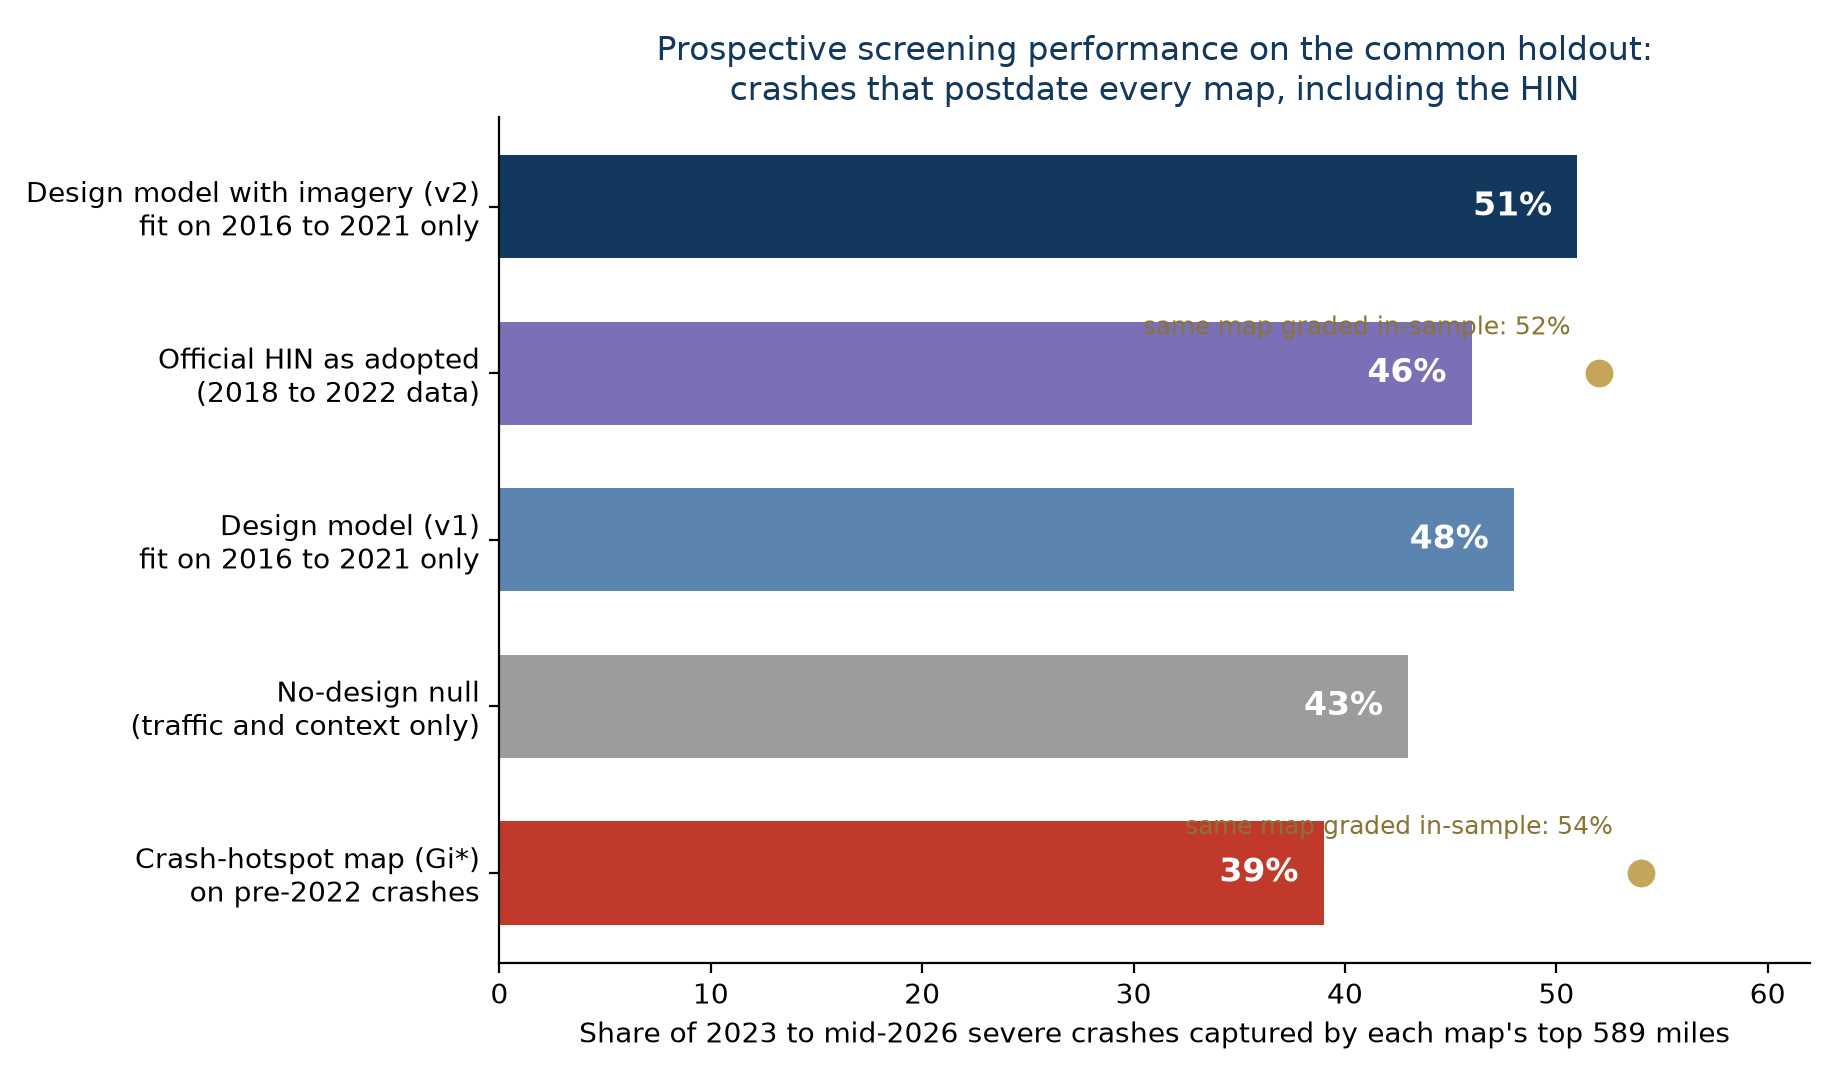
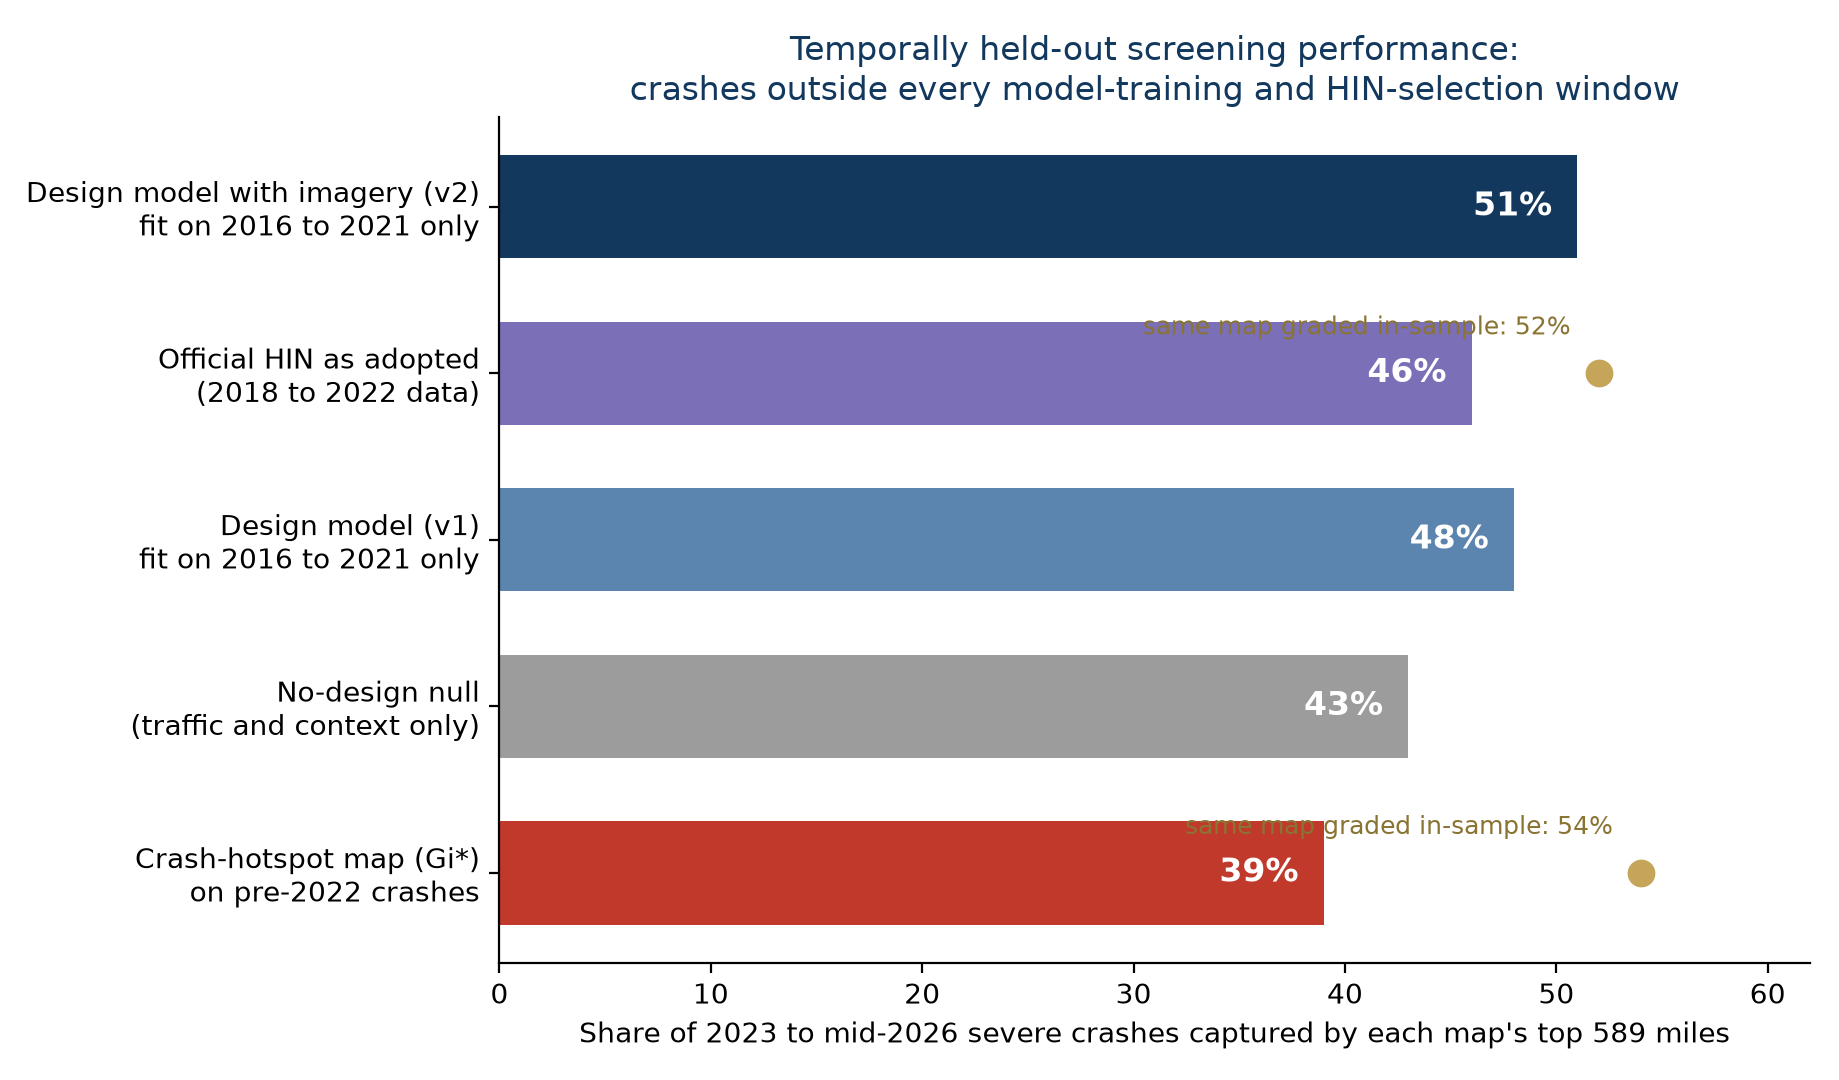
Round 5: GBM temporal row (53/54), held-out terminology, baseline specified, consistency fixes

Changed region(s): [[0.3409, 0.0306, 0.9299, 0.0917]]

diff --git a/src/model_temporal_holdout.py b/src/model_temporal_holdout.py
@@ -224,6 +224,26 @@ def main():
                for c, X in X2m.items()}
     scoren, _ = score_from_fit(counts.n_pre, Xn, d, seg)
 
+    print("gradient-boosted temporal reference (untuned, pre-2022 fit)...")
+    from sklearn.ensemble import HistGradientBoostingRegressor
+    from model_nb import CATEGORICAL
+    feats = pd.DataFrame({
+        "lanes": d.lanes_final, "speed": d.posted_speed_mph,
+        "signals": d.n_signals, "deg": d.deg_sum, "oneway": d.oneway,
+        "log_adt": d.log_adt, "adt_missing": d.adt_missing,
+        "income": d.median_hh_income, "poverty": d.pct_poverty,
+        "zerocar": d.pct_zero_car_hh, "density": d.pop_density_sqmi,
+        "length_ft": seg.length_ft.to_numpy(),
+    })
+    for c in CATEGORICAL:
+        feats[c] = pd.Categorical(seg[c].fillna("Unknown").astype(str)).codes
+    cat_idx = [feats.columns.get_loc(c) for c in CATEGORICAL]
+    gbm = HistGradientBoostingRegressor(loss="poisson",
+                                        categorical_features=cat_idx,
+                                        random_state=42)
+    gbm.fit(feats, counts.n_pre)
+    score_gbm = np.clip(gbm.predict(feats), 1e-9, None) / (length / 5280)
+
     print("Gi* on pre-2022 crashes (ranking by z)...")
     w = w_shared_endpoint(seg)
     w.transform = "r"
@@ -242,8 +262,11 @@ def main():
             "v2, imagery masked where median capture year >2019":
                 capture(base, score2m[2019], [GI_MILES, HIN_MILES]),
             "Design model v1 (fit pre-2022)": capture(base, score1, [GI_MILES, HIN_MILES]),
+            "Gradient-boosted reference (untuned, fit pre-2022)":
+                capture(base, score_gbm, [GI_MILES, HIN_MILES]),
             "Gi* hotspots (pre-2022 crashes)": capture(base, score_gi, [GI_MILES, HIN_MILES]),
-            "No-design null (fit pre-2022)": capture(base, scoren, [GI_MILES, HIN_MILES]),
+            "Context-and-exposure baseline (no design or class; fit pre-2022)":
+                capture(base, scoren, [GI_MILES, HIN_MILES]),
         }
         cap_hin = float(n_post[on_hin].sum() / n_post.sum())
         return rows, cap_hin

diff --git a/src/plot_temporal_capture.py b/src/plot_temporal_capture.py
@@ -58,8 +58,8 @@ def capture_fig():
     ax.set_xlim(0, 62)
     ax.set_xlabel("Share of 2023 to mid-2026 severe crashes captured by each "
                   "map's top 589 miles", fontsize=10)
-    ax.set_title("Prospective screening performance on the common holdout:\n"
-                 "crashes that postdate every map, including the HIN",
+    ax.set_title("Temporally held-out screening performance:\n"
+                 "crashes outside every model-training and HIN-selection window",
                  fontsize=12, color=NAVY)
     ax.spines[["top", "right"]].set_visible(False)
     fig.tight_layout()

diff --git a/LOG.md b/LOG.md
@@ -4,6 +4,17 @@ Dated record of what was done, what was decided, and why. Newest entries at the 
 
 ---
 
+## 2026-07-11 (round 5) — Internal consistency pass; GBM added to the temporal table; EB formally skipped
+
+Round 5: "essentially ready for mentor review... stop revising the analysis." All items shipped; draft v1.5.
+
+- **GBM temporal row added** (reviewer: the best spatial comparator should not vanish from Table 2): untuned gradient-boosted reference, fit pre-2022, captures 53% primary / 54% deployment, above v2's 51. Reported honestly: interpretability costs about two points out of window, and even the nonlinear reference's 7-point edge over the HIN confirms the design signal. The interpretable model remains the product; coefficients are the deliverable.
+- **"Postdates every map" retired** (the roadway inventory is 2026-vintage, so only crash information postdates): now "outside every model-training and HIN-selection window" / "common held-out window" across abstract, methods, 5.4, Table 2, Figure 3 (regenerated with new title "Temporally held-out screening performance").
+- **Methods imagery-freeze sentence aligned with the actual strict bound** (was still describing median-year masking).
+- **"No-design null" renamed "context-and-exposure baseline"** with exact composition stated (offset + ADT + SES; no design, no functional class).
+- **PSN mileage description fixed** (605 = 304 shared + 301 PSN-only; 890-mile three-tier framework); **crash-density label fixed** (64/mile is all crashes, not severe); **DAG terminology settled** ("prespecified conceptual causal model", figure = "Conceptual covariate-role diagram").
+- **EB decision: formally skipped for TRB** (two reviewers say stop expanding; nobody asked for EB; the future-work paragraph with the HSM anchor is the complete defensible position; revisit only if TRR asks).
+
 ## 2026-07-11 (latest) — Review round 4: claim calibration; the paper is declared near-submission-ready
 
 Round 4 verdict: "close to submission-ready... I would not begin another large round of methodological expansion." All requested changes shipped same day; draft now v1.4.

diff --git a/reports/temporal_holdout_report.md b/reports/temporal_holdout_report.md
@@ -17,8 +17,9 @@ any of these 3,328 severe crashes.
 | v2, imagery masked where median capture year >2021 | 48% | 51% |
 | v2, imagery masked where median capture year >2019 | 48% | 50% |
 | Design model v1 (fit pre-2022) | 46% | 48% |
+| Gradient-boosted reference (untuned, fit pre-2022) | 51% | 53% |
 | Gi* hotspots (pre-2022 crashes) | 37% | 39% |
-| No-design null (fit pre-2022) | 40% | 43% |
+| Context-and-exposure baseline (no design or class; fit pre-2022) | 40% | 43% |
 | Official HIN (as published; 589 mi) | | 46% |
 
 Block-bootstrap 95% interval for (model - HIN) capture at 589 mi,
@@ -38,8 +39,9 @@ the HIN's favor.
 | v2, imagery masked where median capture year >2021 | 48% | 51% |
 | v2, imagery masked where median capture year >2019 | 48% | 50% |
 | Design model v1 (fit pre-2022) | 46% | 49% |
+| Gradient-boosted reference (untuned, fit pre-2022) | 51% | 54% |
 | Gi* hotspots (pre-2022 crashes) | 38% | 40% |
-| No-design null (fit pre-2022) | 40% | 42% |
+| Context-and-exposure baseline (no design or class; fit pre-2022) | 40% | 42% |
 | Official HIN (selection overlaps 2022; 589 mi) | | 49% |
 
 Block-bootstrap 95% interval, 589 mi: v2 [-3.9,
